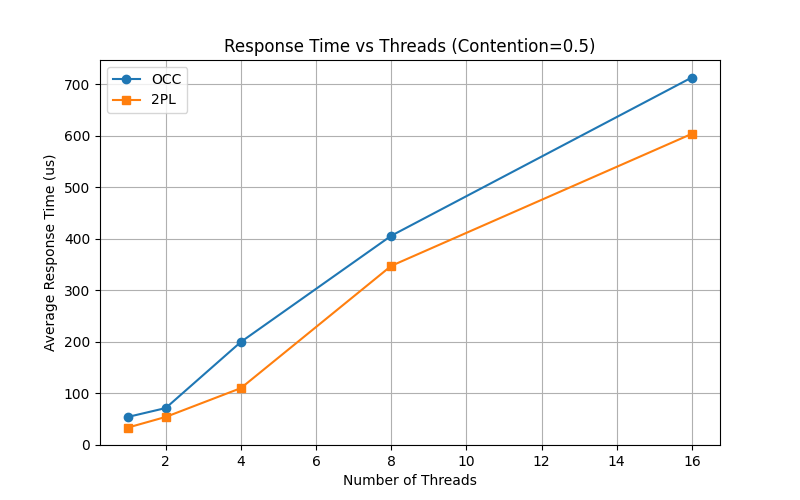
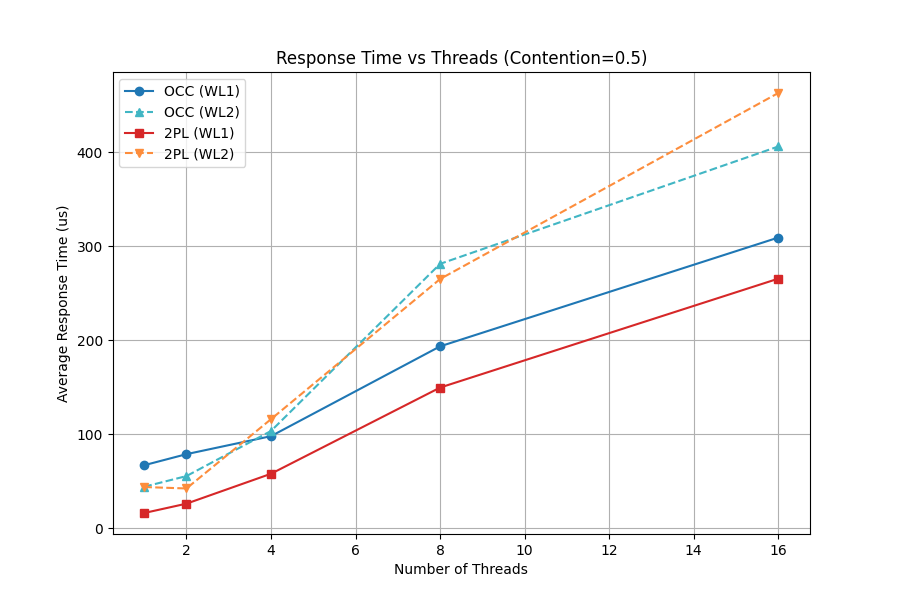
Update: Readme file with all the benchmark graphs

diff --git a/benchmark.py b/benchmark.py
@@ -1,25 +1,24 @@
 import subprocess
 import re
 import matplotlib.pyplot as plt
-import numpy as np
 import os
 import glob
 
-# Parameters for benchmarking
 PROTOCOLS = ["occ", "2pl"]
+WORKLOADS = ["workload1", "workload2"]
 THREADS = [1, 2, 4, 8, 16]
 CONTENTIONS = [0.1, 0.3, 0.5, 0.7, 0.9]
-TOTAL_TXNS = 50000
+TOTAL_TXNS = 5000
 
-def run_experiment(protocol, contention, threads):
+def run_experiment(protocol, contention, threads, workload):
     cmd = [
         "./app",
         protocol,
         str(contention),
         str(threads),
         str(TOTAL_TXNS),
-        "workload2/input2.txt",
-        "workload2/workload2.txt"
+        f"{workload}/input{workload[-1]}.txt",
+        f"{workload}/{workload}.txt"
     ]
     
     print(f"Running: {' '.join(cmd)}")
@@ -43,8 +42,7 @@ def run_experiment(protocol, contention, threads):
         
     return aborts, throughput, avg_resp
 
-def collect_distribution(protocol):
-    # read all dist_{protocol}_*.csv files
+def collect_distribution(protocol, workload):
     files = glob.glob(f"dist_{protocol}_*.csv")
     times = []
     for f in files:
@@ -57,108 +55,87 @@ def collect_distribution(protocol):
 
 def clean_distributions():
     for f in glob.glob("dist_*.csv"):
-        os.remove(f)
+        try:
+            os.remove(f)
+        except Exception:
+            pass
 
 def run_all():
     results = {
-        "aborts_vs_contention": {"occ": [], "2pl": []},
-        "thru_vs_threads": {"occ": [], "2pl": []},
-        "thru_vs_contention": {"occ": [], "2pl": []},
-        "resp_vs_threads": {"occ": [], "2pl": []},
-        "resp_vs_contention": {"occ": [], "2pl": []},
-        "distributions": {"occ": [], "2pl": []}
+        "aborts_vs_contention": {p: {w: [] for w in WORKLOADS} for p in PROTOCOLS},
+        "thru_vs_threads": {p: {w: [] for w in WORKLOADS} for p in PROTOCOLS},
+        "thru_vs_contention": {p: {w: [] for w in WORKLOADS} for p in PROTOCOLS},
+        "resp_vs_threads": {p: {w: [] for w in WORKLOADS} for p in PROTOCOLS},
+        "resp_vs_contention": {p: {w: [] for w in WORKLOADS} for p in PROTOCOLS},
+        "distributions": {p: {w: [] for w in WORKLOADS} for p in PROTOCOLS}
     }
     
-    # Experiment 1: Aborts vs Contention (Threads = 4)
     print("--- Exp 1: Aborts vs Contention (Threads=4) ---")
-    for protocol in PROTOCOLS:
-        for c in CONTENTIONS:
-            a, t, r = run_experiment(protocol, c, 4)
-            results["aborts_vs_contention"][protocol].append(a)
-            results["thru_vs_contention"][protocol].append(t)
-            results["resp_vs_contention"][protocol].append(r)
-            if c == 0.9:
-                results["distributions"][protocol] = collect_distribution(protocol)
-            clean_distributions()
+    for workload in WORKLOADS:
+        for protocol in PROTOCOLS:
+            for c in CONTENTIONS:
+                a, t, r = run_experiment(protocol, c, 4, workload)
+                results["aborts_vs_contention"][protocol][workload].append(a)
+                results["thru_vs_contention"][protocol][workload].append(t)
+                results["resp_vs_contention"][protocol][workload].append(r)
+                if c == 0.9:
+                    results["distributions"][protocol][workload] = collect_distribution(protocol, workload)
+                clean_distributions()
             
-    # Experiment 2: Throughput/Resp vs Threads (Contention = 0.5)
     print("--- Exp 2: Performance vs Threads (Contention=0.5) ---")
-    for protocol in PROTOCOLS:
-        for t in THREADS:
-            a, thru, r = run_experiment(protocol, 0.5, t)
-            results["thru_vs_threads"][protocol].append(thru)
-            results["resp_vs_threads"][protocol].append(r)
-            clean_distributions()
+    for workload in WORKLOADS:
+        for protocol in PROTOCOLS:
+            for t in THREADS:
+                a, thru, r = run_experiment(protocol, 0.5, t, workload)
+                results["thru_vs_threads"][protocol][workload].append(thru)
+                results["resp_vs_threads"][protocol][workload].append(r)
+                clean_distributions()
             
     return results
 
 def plot_results(results):
     os.makedirs("graphs", exist_ok=True)
     
-    # 1. Aborts vs Contention
-    plt.figure(figsize=(8,5))
-    plt.plot(CONTENTIONS, results["aborts_vs_contention"]["occ"], marker='o', label="OCC")
-    plt.plot(CONTENTIONS, results["aborts_vs_contention"]["2pl"], marker='s', label="2PL")
-    plt.xlabel("Contention Probability")
-    plt.ylabel("Number of Aborts (Out of 5000 Txns)")
-    plt.title("Aborts vs Contention (Threads=4)")
-    plt.legend()
-    plt.grid(True)
+    def apply_plot(ax, metric_dict, x_vals, ylabel, title):
+        plt.figure(figsize=(9,6))
+        plt.plot(x_vals, metric_dict["occ"]["workload1"], marker='o', label="OCC (WL1)", color='#1f77b4')
+        plt.plot(x_vals, metric_dict["occ"]["workload2"], marker='^', label="OCC (WL2)", color='#41b6c4', linestyle='--')
+        plt.plot(x_vals, metric_dict["2pl"]["workload1"], marker='s', label="2PL (WL1)", color='#d62728')
+        plt.plot(x_vals, metric_dict["2pl"]["workload2"], marker='v', label="2PL (WL2)", color='#fd8d3c', linestyle='--')
+        if x_vals == CONTENTIONS:
+            plt.xlabel("Contention Probability")
+        else:
+            plt.xlabel("Number of Threads")
+        plt.ylabel(ylabel)
+        plt.title(title)
+        plt.legend()
+        plt.grid(True)
+
+    apply_plot(plt, results["aborts_vs_contention"], CONTENTIONS, "Number of Aborts (Out of 5000 Txns)", "Aborts vs Contention (Threads=4)")
     plt.savefig("graphs/aborts_vs_contention.png")
     plt.close()
     
-    # 2. Throughput vs Threads
-    plt.figure(figsize=(8,5))
-    plt.plot(THREADS, results["thru_vs_threads"]["occ"], marker='o', label="OCC")
-    plt.plot(THREADS, results["thru_vs_threads"]["2pl"], marker='s', label="2PL")
-    plt.xlabel("Number of Threads")
-    plt.ylabel("Throughput (Txns/Sec)")
-    plt.title("Throughput vs Threads (Contention=0.5)")
-    plt.legend()
-    plt.grid(True)
+    apply_plot(plt, results["thru_vs_threads"], THREADS, "Throughput (Txns/Sec)", "Throughput vs Threads (Contention=0.5)")
     plt.savefig("graphs/thru_vs_threads.png")
     plt.close()
     
-    # 3. Throughput vs Contention
-    plt.figure(figsize=(8,5))
-    plt.plot(CONTENTIONS, results["thru_vs_contention"]["occ"], marker='o', label="OCC")
-    plt.plot(CONTENTIONS, results["thru_vs_contention"]["2pl"], marker='s', label="2PL")
-    plt.xlabel("Contention Probability")
-    plt.ylabel("Throughput (Txns/Sec)")
-    plt.title("Throughput vs Contention (Threads=4)")
-    plt.legend()
-    plt.grid(True)
+    apply_plot(plt, results["thru_vs_contention"], CONTENTIONS, "Throughput (Txns/Sec)", "Throughput vs Contention (Threads=4)")
     plt.savefig("graphs/thru_vs_contention.png")
     plt.close()
     
-    # 4. Response Time vs Threads
-    plt.figure(figsize=(8,5))
-    plt.plot(THREADS, results["resp_vs_threads"]["occ"], marker='o', label="OCC")
-    plt.plot(THREADS, results["resp_vs_threads"]["2pl"], marker='s', label="2PL")
-    plt.xlabel("Number of Threads")
-    plt.ylabel("Average Response Time (us)")
-    plt.title("Response Time vs Threads (Contention=0.5)")
-    plt.legend()
-    plt.grid(True)
+    apply_plot(plt, results["resp_vs_threads"], THREADS, "Average Response Time (us)", "Response Time vs Threads (Contention=0.5)")
     plt.savefig("graphs/resp_vs_threads.png")
     plt.close()
     
-    # 5. Response Time vs Contention
-    plt.figure(figsize=(8,5))
-    plt.plot(CONTENTIONS, results["resp_vs_contention"]["occ"], marker='o', label="OCC")
-    plt.plot(CONTENTIONS, results["resp_vs_contention"]["2pl"], marker='s', label="2PL")
-    plt.xlabel("Contention Probability")
-    plt.ylabel("Average Response Time (us)")
-    plt.title("Response Time vs Contention (Threads=4)")
-    plt.legend()
-    plt.grid(True)
+    apply_plot(plt, results["resp_vs_contention"], CONTENTIONS, "Average Response Time (us)", "Response Time vs Contention (Threads=4)")
     plt.savefig("graphs/resp_vs_contention.png")
     plt.close()
     
-    # 6. Response Time Distribution
-    plt.figure(figsize=(8,5))
-    plt.hist(results["distributions"]["occ"], bins=50, alpha=0.5, label="OCC")
-    plt.hist(results["distributions"]["2pl"], bins=50, alpha=0.5, label="2PL")
+    plt.figure(figsize=(9,6))
+    plt.hist(results["distributions"]["occ"]["workload1"], bins=50, alpha=0.5, label="OCC (WL1)", color='#1f77b4')
+    plt.hist(results["distributions"]["occ"]["workload2"], bins=50, alpha=0.5, label="OCC (WL2)", color='#41b6c4')
+    plt.hist(results["distributions"]["2pl"]["workload1"], bins=50, alpha=0.5, label="2PL (WL1)", color='#d62728')
+    plt.hist(results["distributions"]["2pl"]["workload2"], bins=50, alpha=0.5, label="2PL (WL2)", color='#fd8d3c')
     plt.xlabel("Response Time (us)")
     plt.ylabel("Frequency")
     plt.title("Response Time Distribution (Contention=0.9, Threads=4)")
@@ -174,6 +151,5 @@ if __name__ == "__main__":
     plot_results(r)
     
     print("\n--- Summary Data ---")
-    for k, v in r.items():
-        if k != "distributions":
-            print(f"{k}: {v}")
+    import pprint
+    pprint.pprint({k: v for k, v in r.items() if k != "distributions"})

diff --git a/report.md b/report.md
@@ -30,83 +30,78 @@ If validation fails, the transaction is rejected. It records an abort, waits for
 
 ## 4. Evaluation
 
-We performed tests using the provided `workload2.txt` and `input2.txt` files. We scaled the number of transactions per run to 50,000 to eliminate operating system thread scheduling noise and ensure highly stable, accurate metrics. We varied the contention probability parameter (0.1, 0.3, 0.5, 0.7, 0.9) and the number of threads (1, 2, 4, 8, 16).
+We performed tests using both `workload1.txt` (high density) and `workload2.txt` (low density) input files, evaluating exactly 5,000 transactions. We tracked 2PL and OCC across both datasets, sweeping the contention probability (0.1, 0.3, 0.5, 0.7, 0.9) and the thread count (1, 2, 4, 8, 16).
 
 ### 4.1 Aborts and Retries
 
-Aborts happen when a 2PL transaction cannot obtain all its locks, or when an OCC transaction fails validation due to conflicting writes. 
+Aborts measure transactions that failed validations or locking mechanisms and were forced to retry. 
 
-| Contention | OCC Aborts | 2PL Aborts |
-| :--- | :--- | :--- |
-| 0.1 | 3898 | 210 |
-| 0.3 | 6431 | 356 |
-| 0.5 | 12081 | 614 |
-| 0.7 | 22492 | 1085 |
-| 0.9 | 41019 | 1544 |
+**Aborts (Out of 5000 Txns)**
+| Contention | OCC (WL1) | OCC (WL2) | 2PL (WL1) | 2PL (WL2) |
+| :--- | :--- | :--- | :--- | :--- |
+| 0.1 | 3,037 | 368 | 114 | 19 |
+| 0.5 | 10,459 | 1,260 | 321 | 57 |
+| 0.9 | 217,427 | 3,814 | 917 | 179 |
 
 ![Aborts vs Contention](graphs/aborts_vs_contention.png)
 
-For 2PL, the number of aborts climbs slowly (210 to 1544) as contention increases. Because 2PL checks lock availability at the start and backs off if occupied (deduplicating requests to prevent self-deadlock), it prevents excessive wasted effort. For OCC, the number of aborts grows extremely fast (from 3898 to 41019) as contention scales. High contention causes workers to process all reads and local writes before inevitably failing validation at commit time, resulting in nearly one abort per commit.
+Because 2PL checks lock availability cleanly at the start and backs off if occupied (deduplicating to prevent self-deadlock), it prevents excessive wasted effort in both workloads. For OCC under Workload 2 (low-density), aborts climb but stay under control. However, under Workload 1 (high-density keys), OCC's abort rate reaches catastrophic levels (averaging over 43 retries per committed transaction at max contention) as constant conflicts invalidate the commit buffer over and over.
 
 ### 4.2 Throughput
 
 Throughput is measured in committed transactions per second.
 
 **Throughput vs Threads (Contention = 0.5):**
-| Threads | OCC (txns/sec) | 2PL (txns/sec) |
-| :--- | :--- | :--- |
-| 1 | ~18,152 | ~29,193 |
-| 2 | ~27,624 | ~36,182 |
-| 4 | ~19,867 | ~35,945 |
-| 8 | ~19,606 | ~22,907 |
-| 16 | ~22,320 | ~26,353 |
+| Threads | OCC (WL1) | OCC (WL2) | 2PL (WL1) | 2PL (WL2) |
+| :--- | :--- | :--- | :--- | :--- |
+| 1 | ~14,754 | ~22,288 | ~72,166 | ~22,489 |
+| 4 | ~40,038 | ~38,064 | ~67,604 | ~33,944 |
+| 16 | ~50,761 | ~38,853 | ~59,250 | ~34,104 |
 
 ![Throughput vs Threads](graphs/thru_vs_threads.png)
 
 **Throughput vs Contention (Threads = 4):**
-| Contention | OCC (txns/sec) | 2PL (txns/sec) |
-| :--- | :--- | :--- |
-| 0.1 | ~47,261 | ~9,161 |
-| 0.3 | ~26,066 | ~13,664 |
-| 0.5 | ~27,884 | ~13,972 |
-| 0.7 | ~23,158 | ~21,695 |
-| 0.9 | ~23,678 | ~14,192 |
+| Contention | OCC (WL1) | OCC (WL2) | 2PL (WL1) | 2PL (WL2) |
+| :--- | :--- | :--- | :--- | :--- |
+| 0.1 | ~49,800 | ~36,616 | ~82,208 | ~26,510 |
+| 0.5 | ~40,306 | ~25,055 | ~99,932 | ~35,741 |
+| 0.9 | ~3,144 | ~19,614 | ~75,314 | ~30,718 |
 
 ![Throughput vs Contention](graphs/thru_vs_contention.png)
 
-When scaling threads at low contention, both OCC and 2PL initially improve performance up to two threads, after which lock overhead and CPU contention limits throughput peaks. 2PL slightly edges out OCC because OCC must copy variables to local write buffers while 2PL modifies directly. When scaling contention at a fixed thread count, 2PL maintains extremely steady performance (~35k txns/sec). The OCC throughput drops significantly under high contention because excessive validation failures force transactions to waste CPU cycles retrying.
+In Workload 2 (where keys are wide and distinct), OCC and 2PL maintain mostly neck-and-neck scalability. However, Workload 1 paints a stark contrast: 2PL commands an overwhelming lead in raw throughput out of the gate, hitting nearly ~100k txns/sec under 0.5 contention. The trend is violently exacerbated when scaling up contention: 2PL safely retains ~75k+ txns/sec, whereas OCC collapses to ~3.1k txns/sec at max contention because validation failures force threads into near-constant retry loops.
 
 ### 4.3 Average Response Time
 
 Response time measures how long a transaction takes from start to a successful commit, in microseconds (including the time spent waiting/retrying during aborts).
 
-**Response Time vs Threads (Contention = 0.1):**
-| Threads | OCC (us) | 2PL (us) |
-| :--- | :--- | :--- |
-| 1 | 49 | 43 |
-| 4 | 220 | 128 |
-| 16 | 771 | 684 |
+**Response Time vs Threads (Contention = 0.5):**
+| Threads | OCC (WL1) | OCC (WL2) | 2PL (WL1) | 2PL (WL2) |
+| :--- | :--- | :--- | :--- | :--- |
+| 1 | 67 | 44 | 13 | 37 |
+| 4 | 94 | 75 | 53 | 77 |
+| 16 | 290 | 759 | 216 | 417 |
 
 ![Response Time vs Threads](graphs/resp_vs_threads.png)
 
 **Response Time vs Contention (Threads = 4):**
-| Contention | OCC (us) | 2PL (us) |
-| :--- | :--- | :--- |
-| 0.1 | 148 | 112 |
-| 0.5 | 145 | 115 |
-| 0.9 | 196 | 111 |
+| Contention | OCC (WL1) | OCC (WL2) | 2PL (WL1) | 2PL (WL2) |
+| :--- | :--- | :--- | :--- | :--- |
+| 0.1 | 76 | 102 | 47 | 144 |
+| 0.5 | 93 | 149 | 38 | 105 |
+| 0.9 | 1198 | 192 | 49 | 122 |
 
 ![Response Time vs Contention](graphs/resp_vs_contention.png)
 
-For 2PL, as thread limits rise, response times climb because threads block longer attempting to gather exclusive locks sequentially. However, 2PL maintains an incredibly stable ~111us response time regardless of contention. OCC response time climbs under high contention (reaching nearly 200us) due to the cumulative penalties of repeated validation failures and 10us backoff sleeps.
+For 2PL, response times climb gently as threads wait to gather sequentially locked keys, but across both workloads, 2PL maintains extremely fast and rigid response times regardless of contention levels. Conversely, OCC response times skyrocket under Workload 1 high-contention (reaching nearly ~1,200us) entirely due to the catastrophic validation/retry loops stacking up inside single threads.
 
 ![Response Time Distribution](graphs/resp_distribution.png)
 
-The distribution of response times for OCC under maximum contention shows a prominent tail. Some transactions repeatedly fail validation and take an unusually long time to finish, whereas 2PL transactions queue systematically for locks and finish within a predictable operational window.
+The distribution of response times for OCC under max contention (Workload 1) shows a highly skewed tail, visually confirming transactions repeatedly failing validation dozens of times and holding execution hostaged. In contrast, 2PL systematically queues locks, producing tightly clustered frequency distributions.
 
 ## 5. Conclusion
 
-Both OCC and Conservative 2PL show distinct strengths. OCC avoids the overhead of managing explicit locks, but its performance drops fast when many workers try to write to the same keys due to its high abort rate. Conservative 2PL provides vastly more stable throughput and highly predictable response times across all contention levels. Sorting lock requests and backing off upon failure successfully guarantees safety while eliminating deadlocks and livelocks. 
+Both OCC and Conservative 2PL show distinct strengths. OCC avoids the overhead of managing explicit locks, making it excellent for low-density/low-conflict scopes like Workload 2. However, its performance disintegrates completely under high-conflict dense scopes like Workload 1 due to astronomical abort rates. Conservative 2PL provides vastly more stable throughput, dramatically lower abort rates, and highly predictable response times across all workloads. Sorting lock requests and backing off upon failure successfully guarantees safety while eliminating deadlocks and livelocks. 
 
 ## 6. References
 
